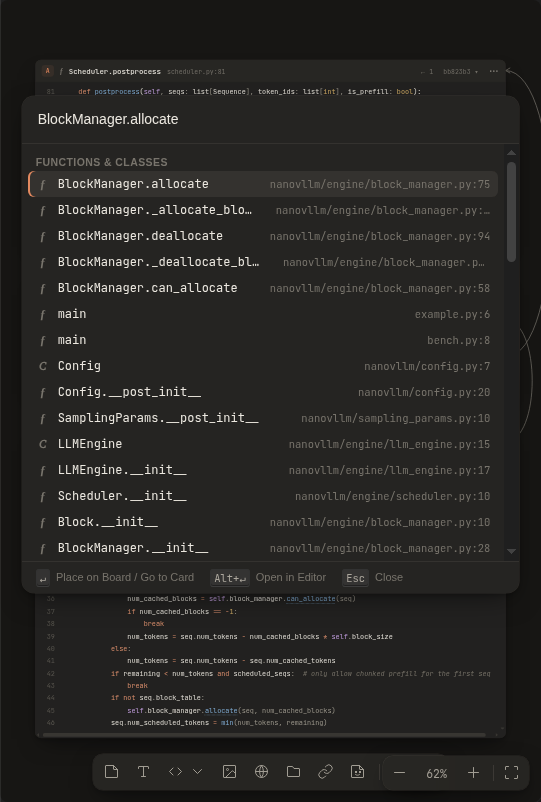
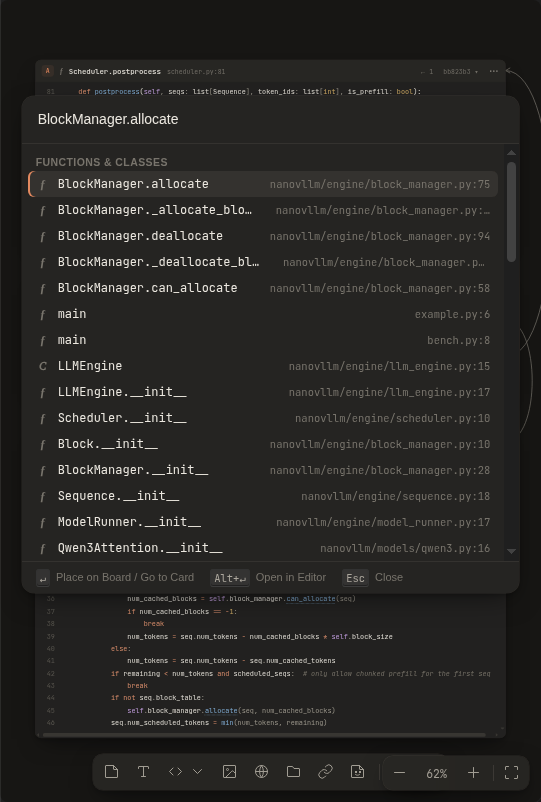
screenshots: pr/22 @ 566f973

diff --git a/pr/22/diff/summary.md b/pr/22/diff/summary.md
@@ -1,1 +1,5 @@
-**Screenshot diff**: 9 steps, 0 changed, identical to baseline.
+**Screenshot diff**: 9 steps, 1 changed.
+
+**5-search** · changed · 1.6% of pixels
+
+![5-search.png](https://github.com/yhnocoder/codeboard/blob/ci-screenshots/pr/22/diff/5-search.png?raw=true)
